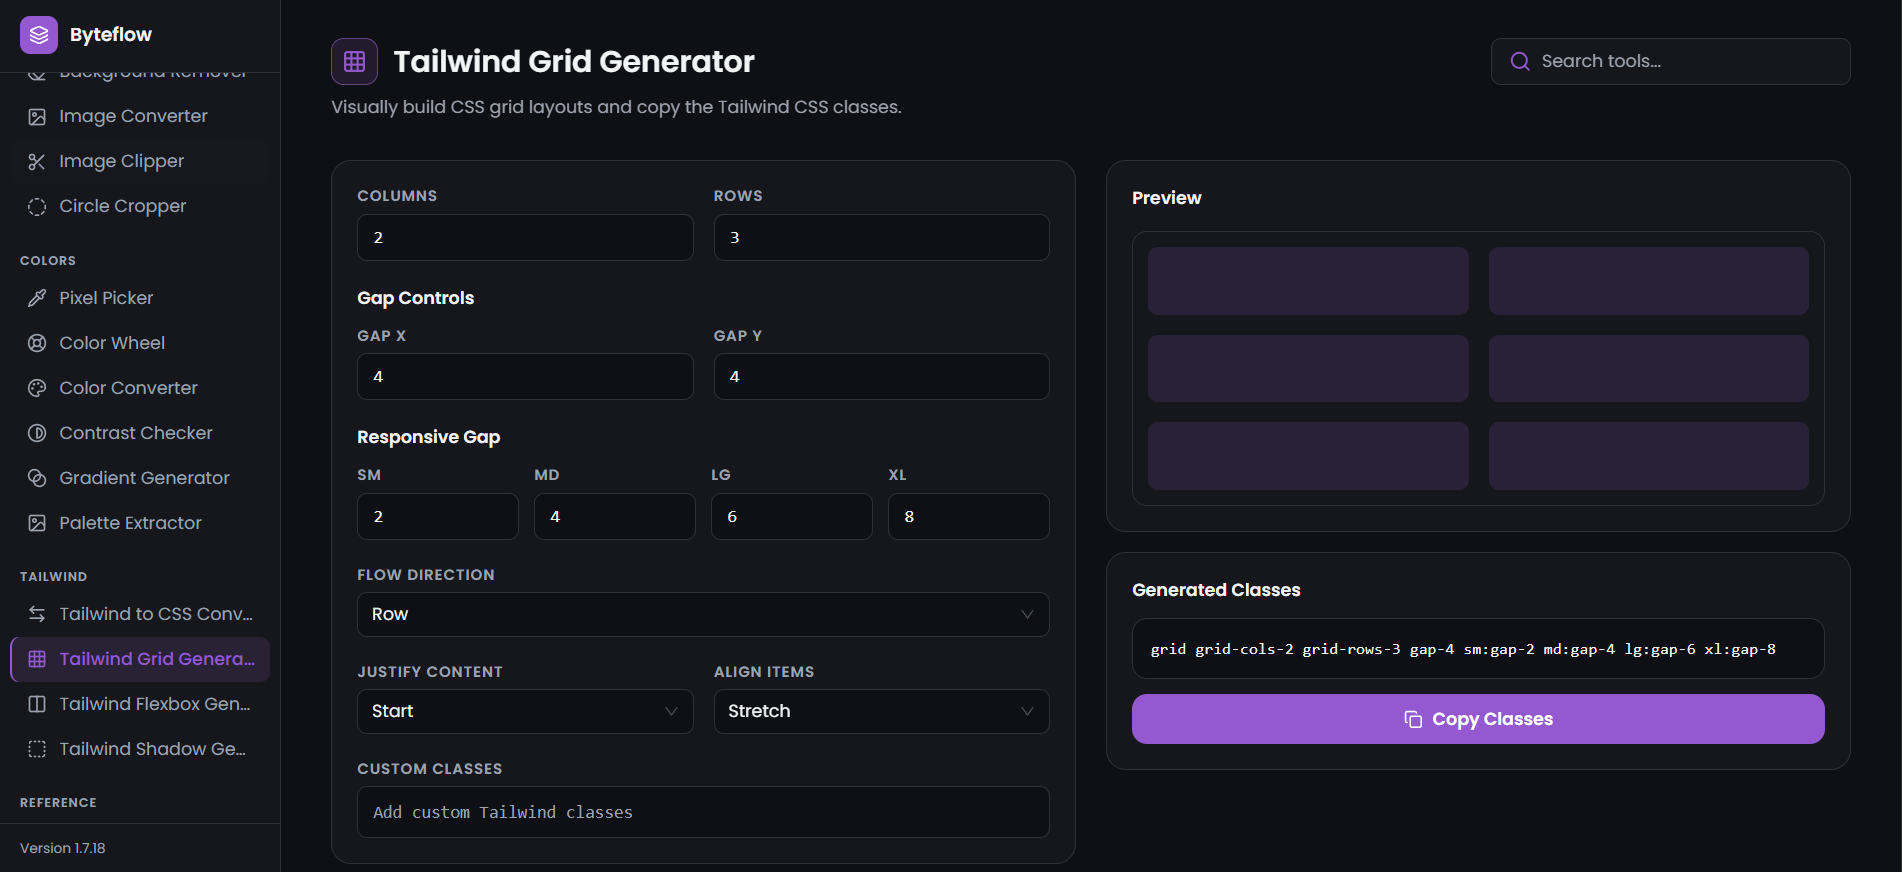
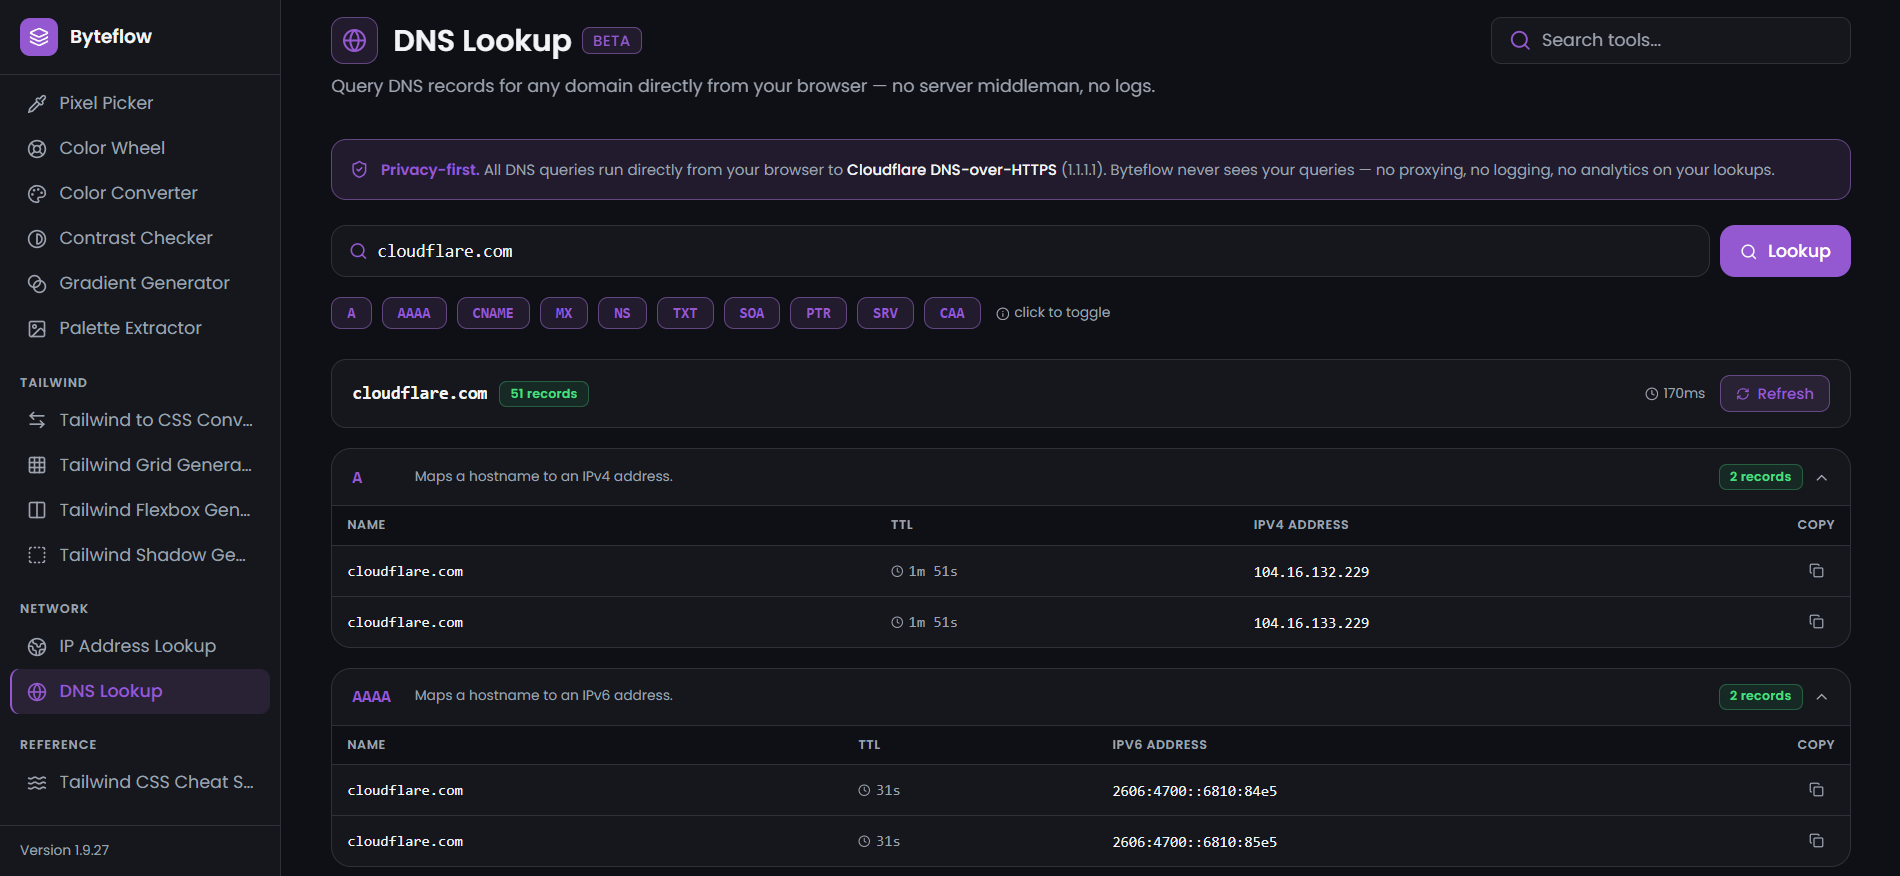
fix: updated Byteflow description and refined tags in portfolio data

diff --git a/src/lib/data.ts b/src/lib/data.ts
@@ -138,7 +138,7 @@ export const portfolio = {
       title: "Byteflow",
       category: "Developer Toolkit",
       description:
-        "A growing collection of privacy-first tech utilities designed for developers and IT professionals. Byteflow includes image processing tools, color and accessibility utilities, Tailwind CSS helpers, and front-end productivity features — all running directly in the browser with no installs or unnecessary uploads. Built with React, Vite, and Tailwind CSS for a fast, lightweight, and seamless user experience, with future expansion into SEO, backend, and general-purpose development utilities.",
+        "A growing collection of privacy-first tech utilities designed for developers and IT professionals. Byteflow includes image processing tools, color and accessibility utilities, Tailwind CSS helpers, front-end productivity features, and network tools — all running directly in the browser with no installs or unnecessary uploads. Built with React, Vite, and Tailwind CSS for a fast, lightweight, and seamless user experience, with future expansion into SEO, backend, and general-purpose development utilities.",
       tags: ["React", "Vite", "Javascript", "Tailwind CSS", "Netlify"],
       year: "2026",
       images: [
@@ -222,13 +222,7 @@ export const portfolio = {
       category: "Personal Portfolio",
       description:
         "This responsive portfolio website showcases my work, experience, and front-end expertise. Built with Next.js, TypeScript, Tailwind CSS, and Framer Motion for smooth animations, excellent performance, and a clean, professional user experience.",
-      tags: [
-        "Next.js",
-        "TypeScript",
-        "Tailwind CSS",
-        "Framer Motion",
-        "Vercel",
-      ],
+      tags: ["Next.js", "TypeScript", "Tailwind CSS", "Framer Motion"],
       year: "2026",
       images: [
         PortfolioImg,